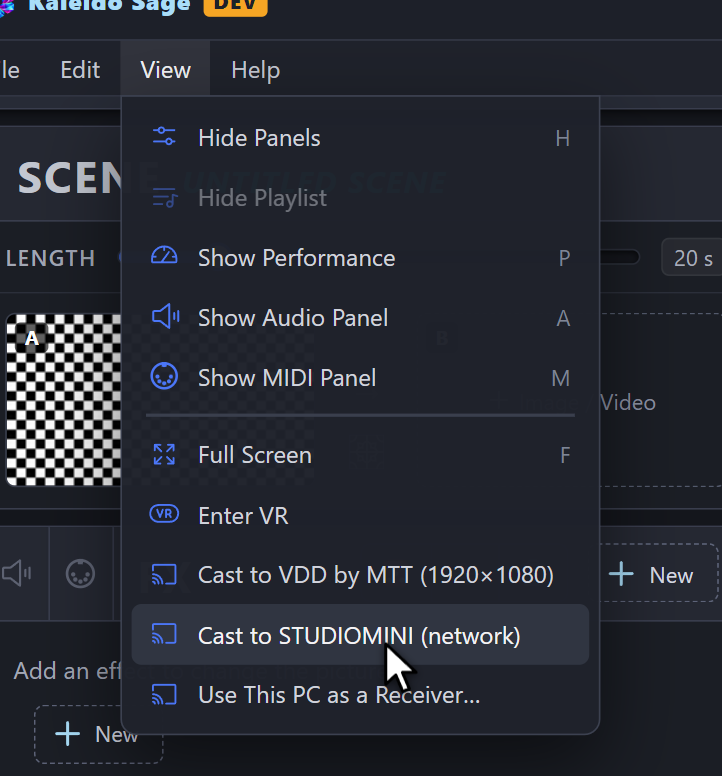
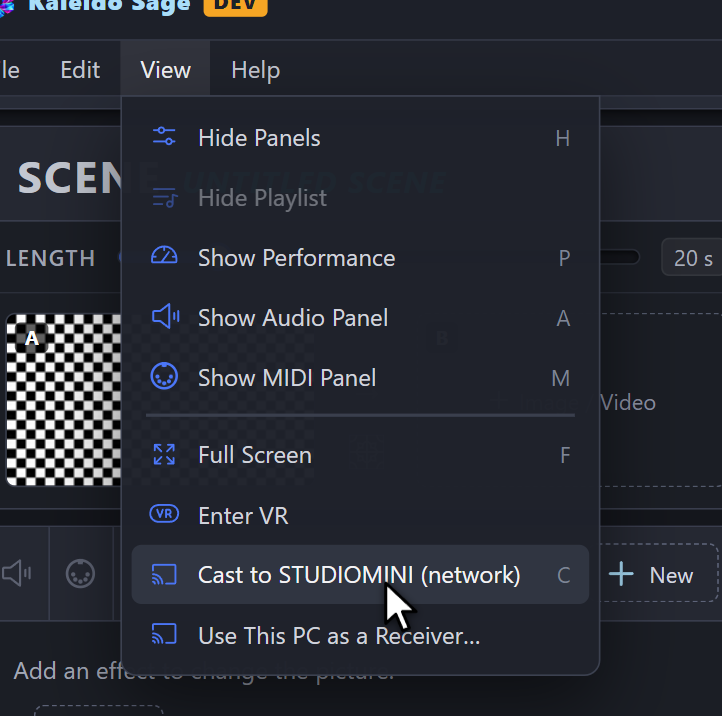
Use This PC as a Receiver: the app's own dialog, not a native one; help: cast menu pictures with one cast target

diff --git a/src/App.tsx b/src/App.tsx
@@ -1,6 +1,6 @@
 import { invoke, isTauri } from "@tauri-apps/api/core";
 import { getCurrentWindow } from "@tauri-apps/api/window";
-import { ask, open as openFileDialog, save as saveDialog } from "@tauri-apps/plugin-dialog";
+import { open as openFileDialog, save as saveDialog } from "@tauri-apps/plugin-dialog";
 import { ArrowClockwise, ArrowCounterClockwise, ArrowsIn, ArrowsOut, Camera, Export, Screencast, FilePlus, FilmStrip, FloppyDisk, FolderOpen, Gauge, HandPointing, Info, Playlist, Keyboard, Plus, Question, SignOut, SlidersHorizontal, SpeakerSimpleHigh, Trash, VirtualReality, X } from "@phosphor-icons/react";
 import { useCallback, useEffect, useMemo, useRef, useState, useSyncExternalStore, type PointerEvent as ReactPointerEvent } from "react";
 import { AboutDialog } from "./components/AboutDialog";
@@ -1855,12 +1855,9 @@ export default function App() {
    * question, the app closes, with its usual question about changes that
    * are not saved, and starts again as a full-screen receiver.
    */
+  const [receiverQuestion, setReceiverQuestion] = useState(false);
   const becomeReceiver = useCallback(async () => {
-    const yes = await ask(
-      "This PC then shows the picture and plays the music that Kaleido Sage on another PC casts to it.\n\nKaleido Sage closes now and starts again as a full-screen receiver. It also starts as a receiver each time Windows starts.\n\nWindows asks one time if Kaleido Sage can use the network: choose Allow.\n\nTo use this PC as before, press Esc on the receiver screen.",
-      { title: "Use This PC as a Receiver", kind: "info", okLabel: "Make This PC a Receiver", cancelLabel: "Cancel" }
-    );
-    if (!yes) return;
+    setReceiverQuestion(false);
     try {
       await invoke("receiver_mode_set", { on: true });
       await getCurrentWindow().close();
@@ -2905,7 +2902,7 @@ export default function App() {
           : castTargets.length > 1
             ? castTargets.map(({ label, target }) => ({ label: `Cast to ${label}`, icon: <Screencast size={15} />, disabled: startScreen || inVr, run: () => void toggleCast(target) }))
             : [{ label: castTargets.length === 1 ? `Cast to ${castTargets[0].label}` : "Cast", icon: <Screencast size={15} />, shortcut: "C", disabled: startScreen || inVr, run: () => void toggleCast() }]),
-        { label: "Use This PC as a Receiver…", icon: <Screencast size={15} />, disabled: casting || inVr, run: () => void becomeReceiver() }
+        { label: "Use This PC as a Receiver…", icon: <Screencast size={15} />, disabled: casting || inVr, run: () => setReceiverQuestion(true) }
       ]
     },
     {
@@ -3319,6 +3316,21 @@ export default function App() {
             saveQuestion.answer(false);
             setSaveQuestion(null);
           }}
+        />
+      )}
+      {receiverQuestion && (
+        <ConfirmDialog
+          title="Use This PC as a Receiver"
+          message="This PC then shows the picture and plays the music that Kaleido Sage on another PC casts to it."
+          details={<>
+            <p>Kaleido Sage closes now and starts again as a full-screen receiver. It also starts as a receiver each time Windows starts.</p>
+            <p>Windows asks one time if Kaleido Sage can use the network: choose Allow.</p>
+            <p>To use this PC as before, press Esc on the receiver screen.</p>
+          </>}
+          confirmLabel="Make This PC a Receiver"
+          confirmIcon={<Screencast size={16} weight="bold" />}
+          onConfirm={() => void becomeReceiver()}
+          onCancel={() => setReceiverQuestion(false)}
         />
       )}
       {dropTracksQuestion && (

diff --git a/src/index.css b/src/index.css
@@ -1708,6 +1708,7 @@ body.eyedropper, body.eyedropper :not(.color-popup, .color-popup *) {
 /* With a close button in the corner (closeButton), the title keeps clear of it. */
 .about-dialog-close + .confirm-dialog-content h2 { padding-right: 28px; }
 .confirm-dialog-content p { margin: 0; color: #b9bdc8; font-size: 13px; line-height: 1.45; }
+.confirm-dialog-content p + p { margin-top: 10px; }
 /* A setting or MIDI control named in a question, in the MIDI orange. */
 .confirm-dialog-content .midi-name { color: var(--midi-on); }
 .confirm-dialog-actions { gap: 8px; }
